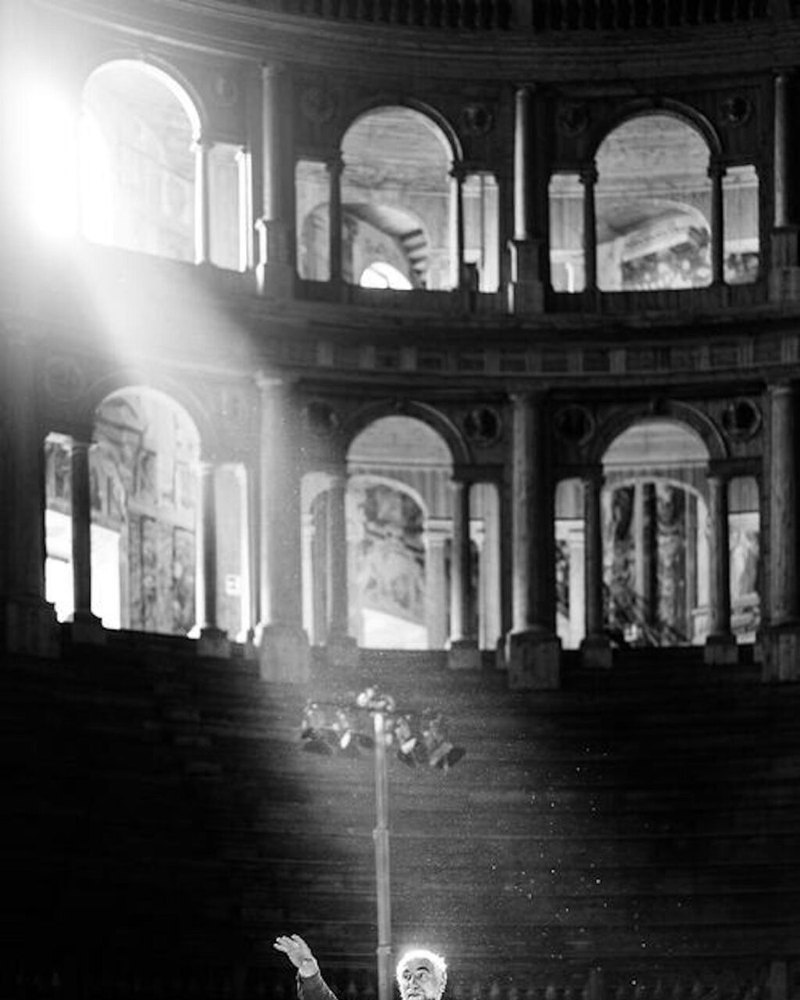
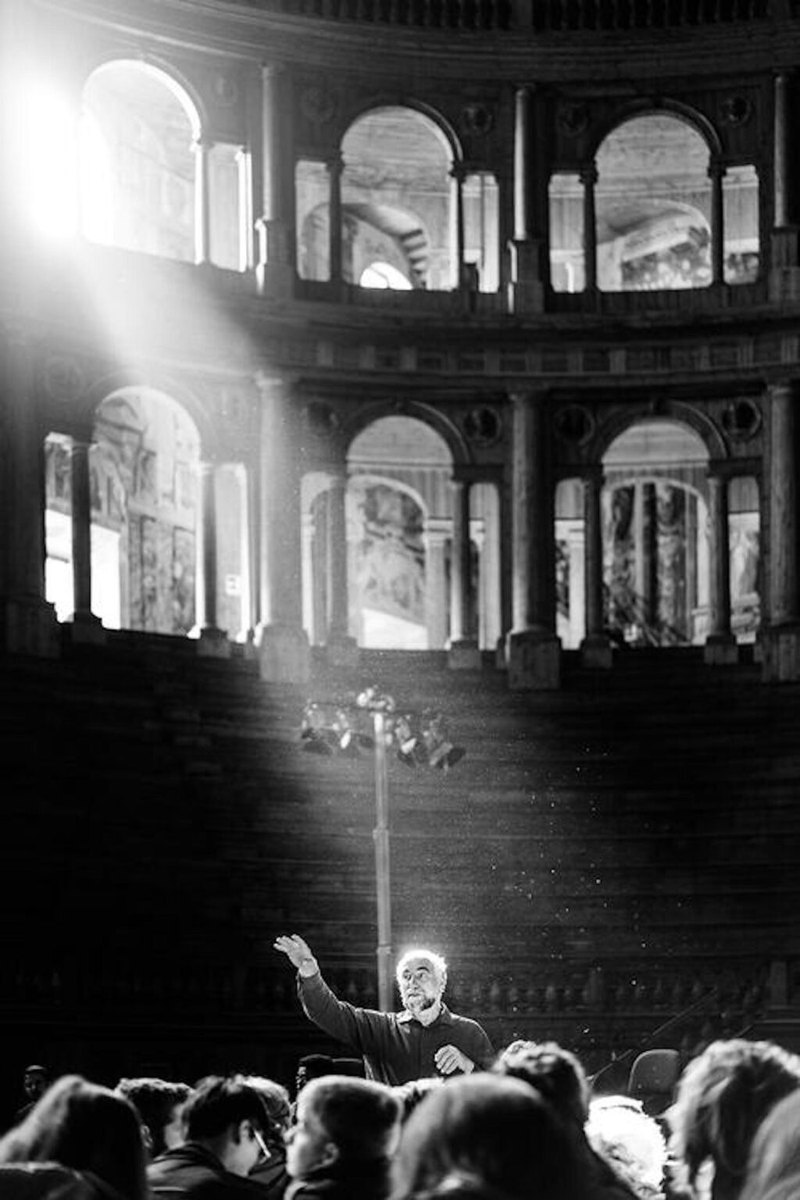
Restore the full Haldenby frame
The 4:5 crop cut through the subject — his head and raised arm sat on the
bottom edge with the body gone. Back to the full 2:3 frame; the height
comes out of the copy instead.

diff --git a/index.html b/index.html
@@ -490,12 +490,10 @@
     <p>Three and a half thousand words, reported from Rome and Cambridge. He paid
     for the first Rome studio's chairs himself, at twenty-seven; the building
     opened twenty-five years to the day after that first Rome class.</p>
-    <p>Also for The Architect's Newspaper on rebuilding Ukraine, and forty-plus
-    articles for Frame in Amsterdam.</p>
     <figure class="drop-1">
       <img src="images/haldenby-rome.jpg"
            alt="Rick Haldenby lecturing to students in a Renaissance theatre in Italy, arm raised, a shaft of light falling across the tiers behind him"
-           loading="lazy" width="800" height="1000">
+           loading="lazy" width="800" height="1200">
       <figcaption>Haldenby lecturing in Italy. Photo: Wesley Zhu.</figcaption>
     </figure>
     <p class="meta">Azure &middot; The Architect's Newspaper &middot; Frame
